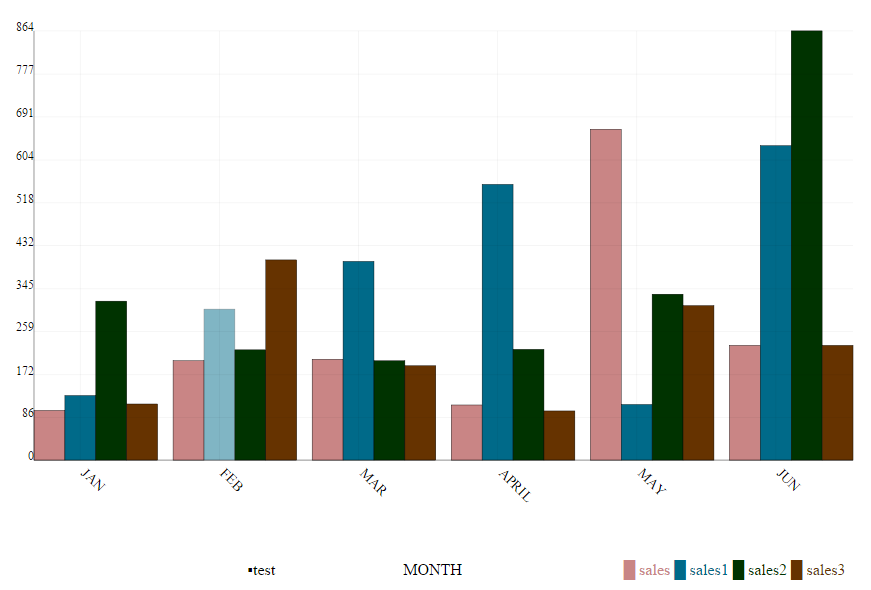
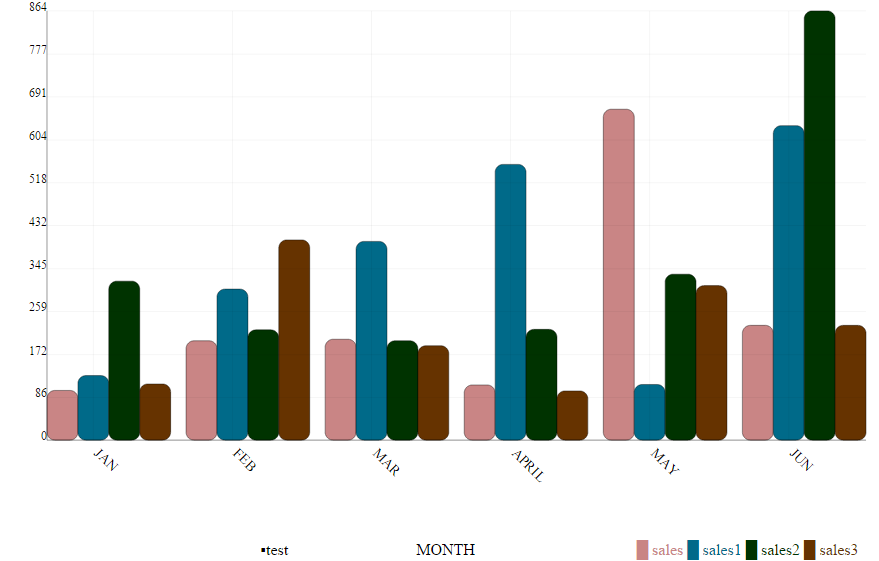
rounded the rects

diff --git a/partials/barchart.html b/partials/barchart.html
@@ -15,6 +15,7 @@
        ng-attr-xcolumn = "{{xcolumn}}"
        ng-attr-ycolumn = "{{ycolumn}}"
        ng-attr-theme = "{{theme}}"
+          rx="10" ry="10"
           
        ng-click="onclicks($event,pt)"
        onmouseover = "this.style.opacity='.5'"

diff --git a/partials/stackchart.html b/partials/stackchart.html
@@ -15,6 +15,7 @@
        ng-attr-xcolumn = "{{xcolumn}}"
        ng-attr-ycolumn = "{{ycolumn}}"
        ng-attr-theme = "{{theme}}"
+          rx="10" ry="10"
           
        ng-click="onclicks($event,pt)"
        onmouseover = "this.style.opacity='.5'"
